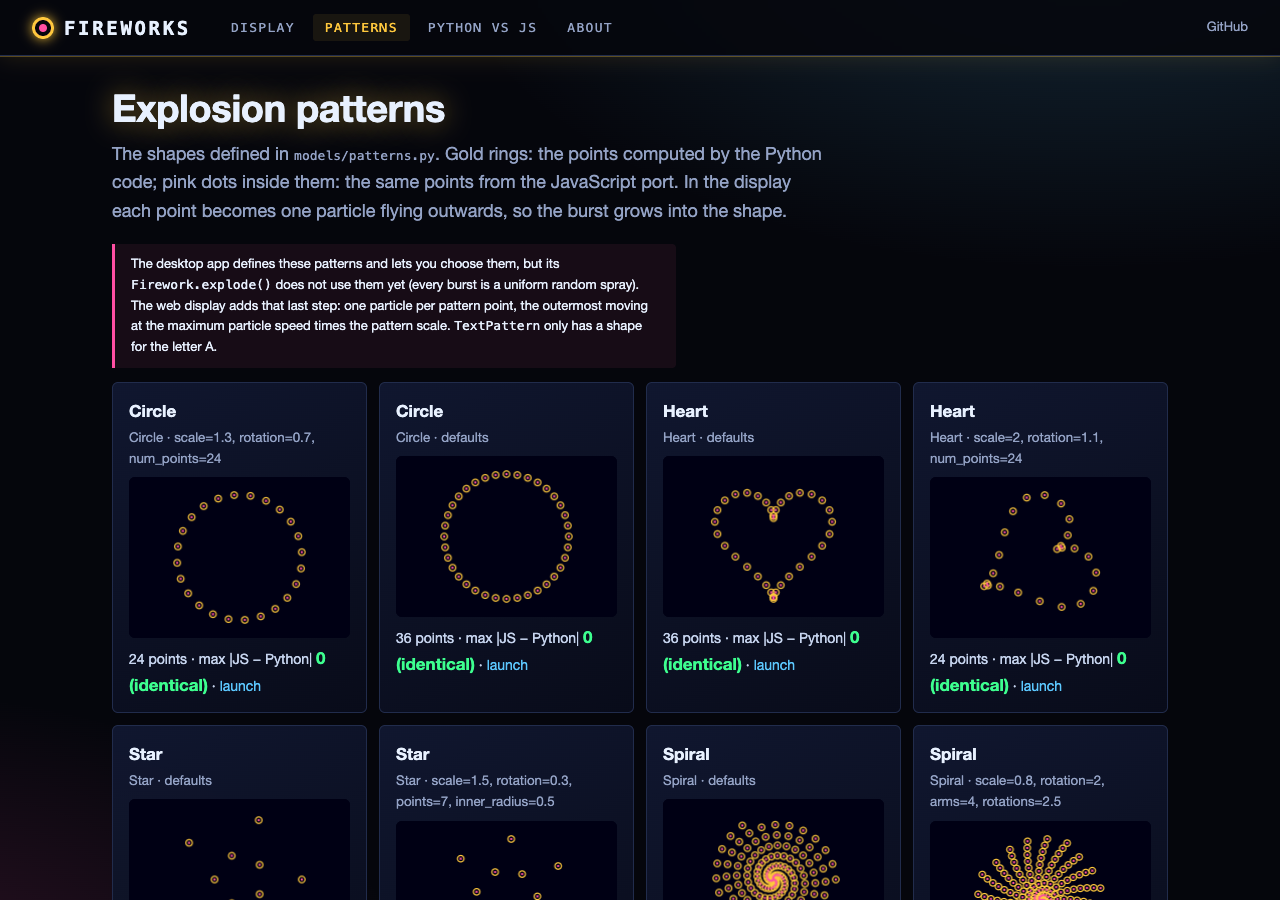
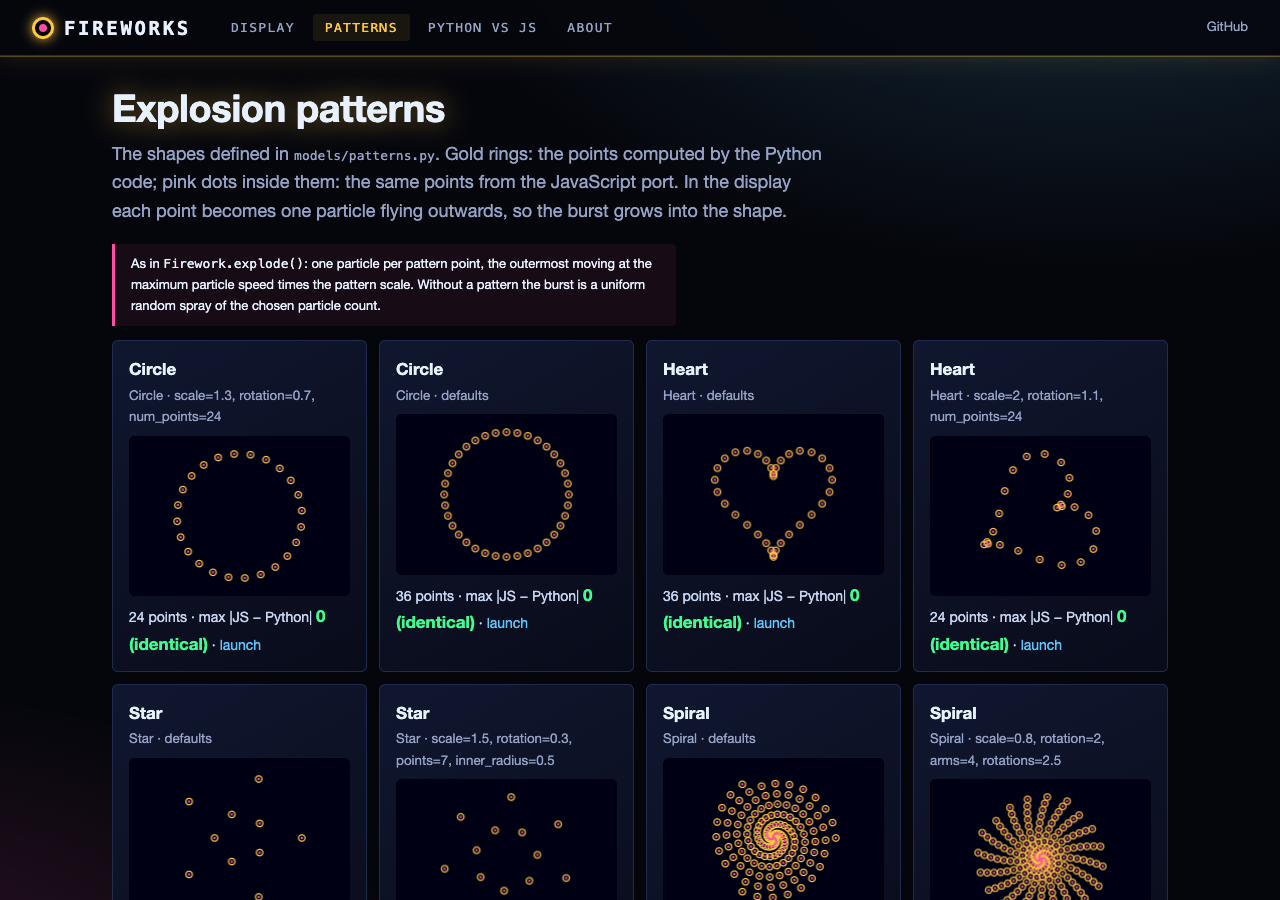
Session log for the approved fixes; refreshed screenshots

diff --git a/SESSION_LOG.md b/SESSION_LOG.md
@@ -17,7 +17,17 @@
   - Mountains drawn in the pen's white instead of their blue-grey (`tests/test_backgrounds.py`).
   - HeartPattern upside down on screen (`tests/test_patterns.py`).
   - README claims corrected (weather transitions, twinkling, click to launch, text pattern, clone dir, link).
-- Needs George's decision: whether/how `Firework.explode()` should use the selected pattern (web uses one particle
-  per pattern point, outermost at PARTICLE_SPEED_MAX x scale); lightning branches never fade; snow caps re-drawn
-  with a new random width every frame (flicker); `effects/sound.py` unused and sound files missing; Text pattern
-  only knows the letter A.
+- Open points from that session were decided by George (see below); launch-speed mapping kept.
+
+## 2026-11-11 (later) -- Fixes approved by George (branch `web-interface`, after merge to main)
+- Desktop burst now uses the chosen pattern (`Firework._explode_pattern`: one particle per pattern point,
+  outermost at PARTICLE_SPEED_MAX x scale), the rule the web already used; web attaches the pattern after
+  building the rocket as the canvas does. `tests/test_firework.py`; new seeded reference shows "star",
+  "random_patterns", "text" (JS = Python to ~1e-15).
+- Lightning branches fade with their main bolt (`TestLightningFade`).
+- Text pattern: A-Z and 0-9 as 5 x 7 dot-matrix glyphs in `models/glyphs.py`; `web/static/fw_glyphs.js` is
+  generated from it by `scripts/make_js_fixtures.py` and checked by `tests/test_web.py` (`TestTextPattern`).
+- Removed unused `effects/sound.py` and its references (`tests/test_effects_package.py`); `_archive/` untouched.
+- Checks: full suite 78 passed (offscreen Qt), test_web 19 passed (also without PyQt6), node 11 + 11,
+  screenshots static/base all ok, phone 0 px; desktop text burst checked offscreen.
+- Still open (not requested): snow caps re-drawn with a new random width every frame (flicker).
